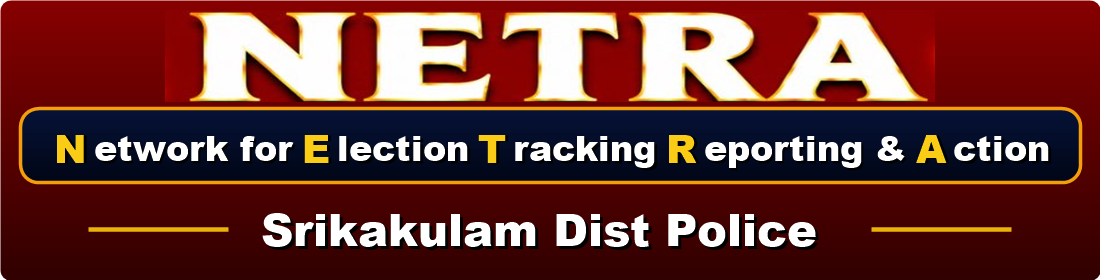
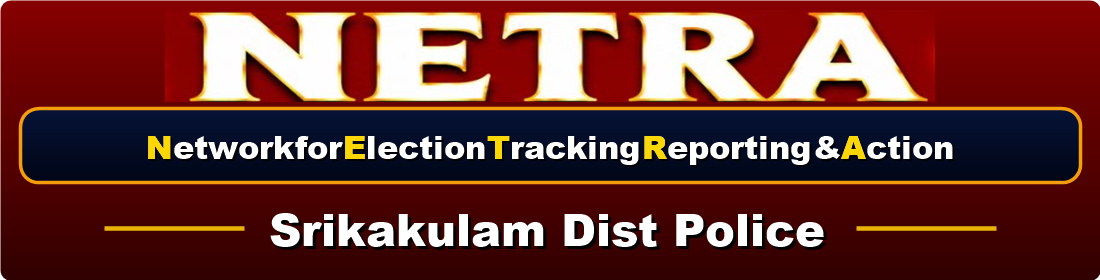
Remove unnecessary spacing inside words in Network for Election Tracking Reporting & Action

Changed region(s): [[0.0309, 0.4571, 0.9582, 0.6], [0.0618, 0.7429, 0.9273, 0.9143]]

diff --git a/index.html b/index.html
@@ -226,7 +226,7 @@
                 <div class="h-10 sm:h-12 md:h-14 w-[1.5px] bg-gradient-to-b from-transparent via-amber-400/60 to-transparent hidden sm:block"></div>
                 <!-- Center: Official NETRA Title Banner (Seamless Borderless Design, High-Resolution Typography) -->
                 <div class="flex flex-col items-center justify-center px-1">
-                    <img src="netra_title_banner.png?v=20261121_05" alt="NETRA - Network for Election Tracking Reporting &amp; Action - Srikakulam Dist Police" class="h-14 sm:h-18 md:h-[92px] w-auto max-w-[380px] sm:max-w-[500px] md:max-w-[620px] object-contain drop-shadow-[0_4px_14px_rgba(0,0,0,0.7)] hover:scale-[1.01] transition-transform duration-200" />
+                    <img src="netra_title_banner.png?v=20261121_06" alt="NETRA - Network for Election Tracking Reporting &amp; Action - Srikakulam Dist Police" class="h-14 sm:h-18 md:h-[92px] w-auto max-w-[380px] sm:max-w-[500px] md:max-w-[620px] object-contain drop-shadow-[0_4px_14px_rgba(0,0,0,0.7)] hover:scale-[1.01] transition-transform duration-200" />
                 </div>
                 <!-- Center Divider / Vertical Line -->
                 <div class="h-10 sm:h-12 md:h-14 w-[1.5px] bg-gradient-to-b from-transparent via-amber-400/60 to-transparent hidden sm:block"></div>

diff --git a/officer.html b/officer.html
@@ -471,7 +471,7 @@
         <span>NETRA</span>
         <span style="font-size: 11px; background: rgba(56, 189, 248, 0.2); color: #38bdf8; padding: 1px 6px; border-radius: 4px; border: 1px solid rgba(56, 189, 248, 0.3);">శ్రీకాకుళం జిల్లా పోలీస్</span>
       </div>
-      <div class="brand-subtitle">Network for Election Tracking, Reporting &amp; Action</div>
+      <div class="brand-subtitle">Network for Election Tracking Reporting &amp; Action</div>
     </div>
     <button type="button" onclick="window.location.reload(true)" style="background: rgba(255,255,255,0.12); border: 1px solid rgba(255,255,255,0.25); color: #93c5fd; padding: 6px 10px; border-radius: 8px; font-size: 11px; font-weight: bold; cursor: pointer; display: flex; align-items: center; gap: 4px; flex-shrink: 0;" title="Refresh App">
       <i class="fa-solid fa-rotate-right"></i> Refresh
